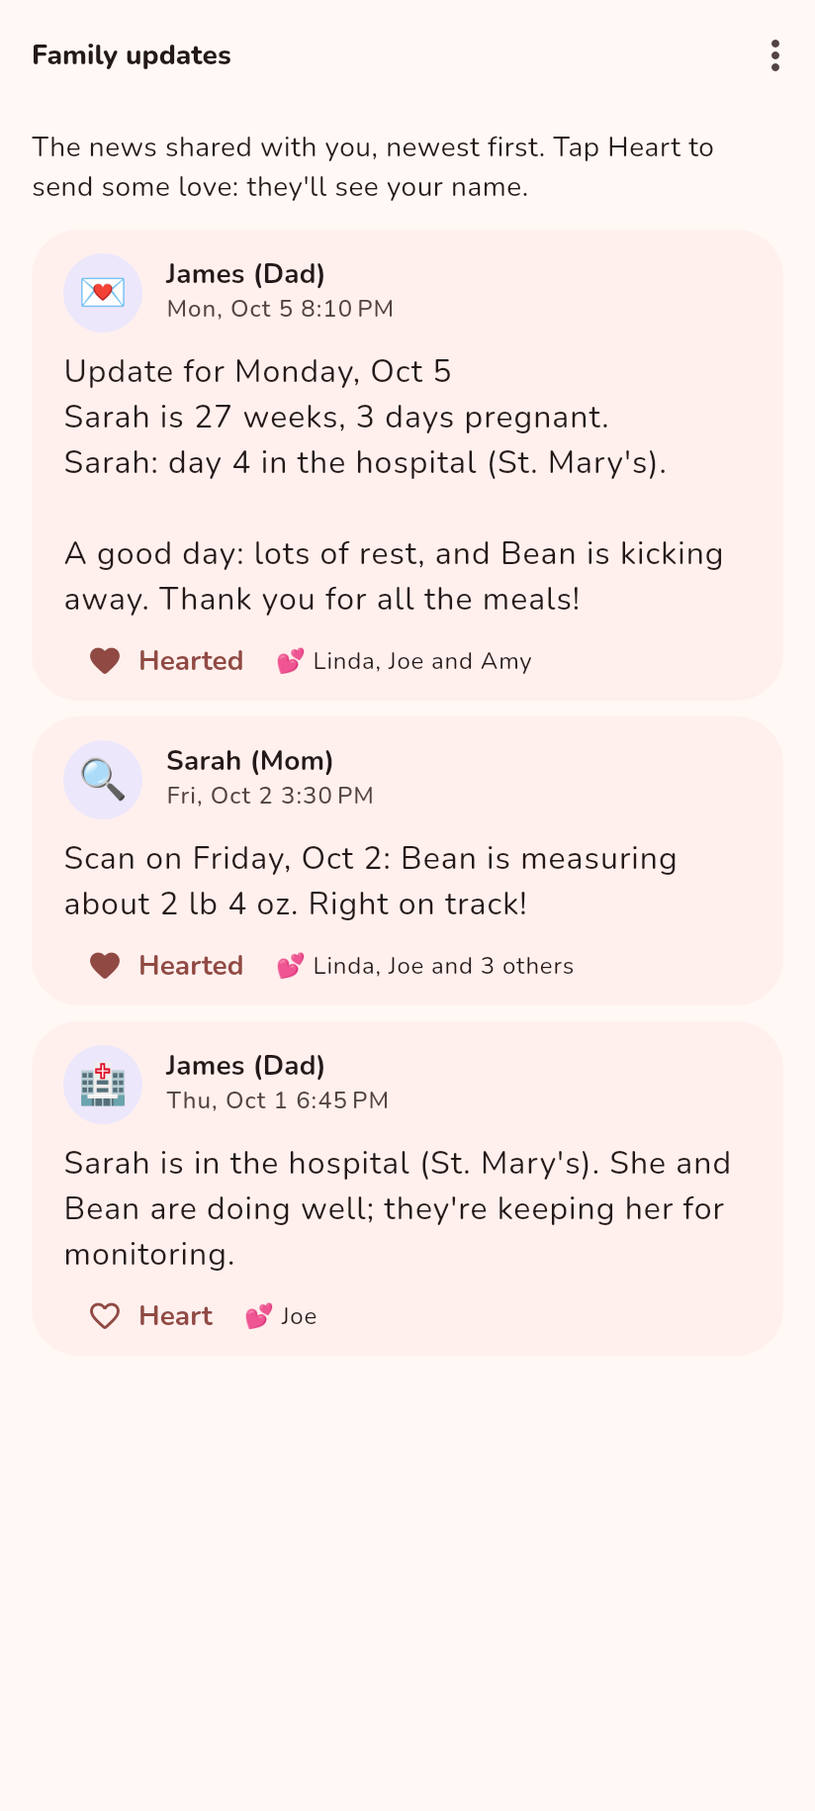
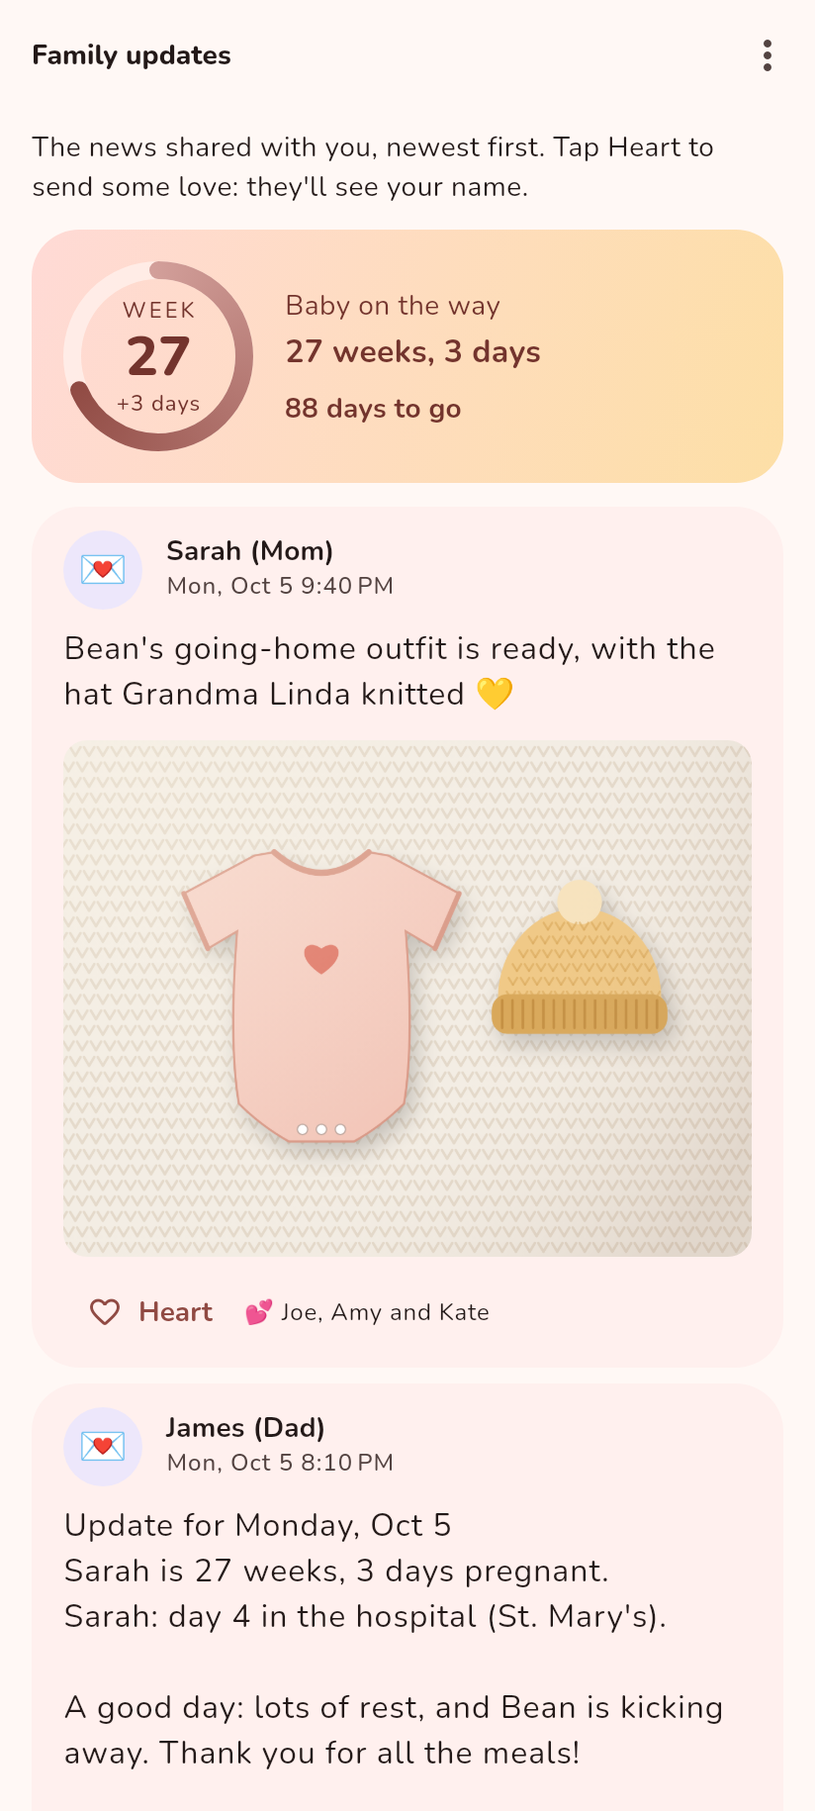
Early Bloom page: everything it does now, with new screenshots
What's Inside is rewritten to match the app and its store description:
week by week (with "if baby arrived today"), conditions, scans and
growth (twins and triplets), the journal and care-team report (bleed
photos), hospital stays and C-sections, after the birth (baby care,
preemie growth charts, medicines, vaccines, NICU days), home screen
widgets, keeping family posted (feed photos, how far along, browsers),
sync, support for families, sources, and prayers.

The gallery is the store's eight screens, bare, from the app's
screenshot generator (Premature-Baby-Tracker, tool/screenshots: the
"website" shots), four across on wide screens. The scan detail and
questions shots are gone; their screens are covered by the others.

The homepage card's blurb and the page's meta description now mention
baby care, widgets and the family feed with photos. The Google Play
status lines are unchanged.

Claude-Session: https://claude.ai/code/session_01KWMgQ7sXPWK8vjnxtNr6Rb

diff --git a/early-bloom.html b/early-bloom.html
@@ -4,7 +4,7 @@
     <meta charset="UTF-8">
     <meta name="viewport" content="width=device-width, initial-scale=1.0">
     <title>Early Bloom — For Families Whose Baby May Arrive Early</title>
-    <meta name="description" content="Early Bloom is an Android app in progress for families whose baby may arrive early: gestational and corrected age, a week-by-week guide, baby's growth, scans, medicines, a journal and a care-team report. Early access for Android, through Google Play's open testing.">
+    <meta name="description" content="Early Bloom is an Android app for families whose baby may arrive early: a week-by-week guide, scans and baby's growth, a journal and care-team report, baby care and NICU tools after the birth, home screen widgets, and a private family feed. Early access for Android, through Google Play's open testing.">
     <!-- Open Graph / social preview -->
     <meta property="og:title" content="Early Bloom — For Families Whose Baby May Arrive Early">
     <meta property="og:description" content="A gentle Android app for a pregnancy where the baby may arrive early, and for the baby afterwards. Early access for Android, through Google Play's open testing.">
@@ -96,7 +96,7 @@
                     A gentle companion for a pregnancy where the baby may arrive early, and for the baby, whenever they get here.
                 </p>
                 <p class="text-sm text-brand-50/60 max-w-xl mx-auto mb-9 leading-relaxed">
-                    Follow the pregnancy week by week, keep track of scans, medicines and symptoms in one place, and switch to NICU and corrected-age guidance once your baby has arrived.
+                    Follow the pregnancy week by week, keep track of scans, medicines and symptoms in one place, keep family posted, and switch to baby care and NICU guidance once your baby has arrived.
                 </p>
                 <!-- Google Play links: shown by early-bloom-status.js once the app is on Google Play. -->
                 <div data-play="live" class="hidden">
@@ -139,21 +139,21 @@
                             <div class="bg-white p-2 rounded-lg border border-brand-100">
                                 <i data-lucide="calendar-days" class="w-5 h-5 text-brand-800"></i>
                             </div>
-                            <h3 class="font-semibold text-brand-900">Gestational &amp; Corrected Age</h3>
+                            <h3 class="font-semibold text-brand-900">Week by Week</h3>
                         </div>
                         <p class="text-brand-500 leading-relaxed text-sm">
-                            See the exact week and day of the pregnancy. Once your baby is born, Early Bloom shows <strong class="text-brand-800">chronological age, postmenstrual age and corrected age</strong>, and the guidance follows along.
+                            The exact week and day, how big baby is and what usually happens this week, with preterm-aware tips. From 22 weeks, <strong class="text-brand-800">if baby arrived today</strong>: what a birth this week would likely mean, from large studies. You can hide the survival statistics at any time.
                         </p>
                     </div>
                     <div class="bg-brand-50 rounded-2xl p-7 border border-brand-100 shadow-sm">
                         <div class="flex items-center gap-3 mb-4">
                             <div class="bg-white p-2 rounded-lg border border-brand-100">
-                                <i data-lucide="book-open" class="w-5 h-5 text-brand-800"></i>
+                                <i data-lucide="stethoscope" class="w-5 h-5 text-brand-800"></i>
                             </div>
-                            <h3 class="font-semibold text-brand-900">Week-by-Week Guide</h3>
+                            <h3 class="font-semibold text-brand-900">Your Conditions</h3>
                         </div>
                         <p class="text-brand-500 leading-relaxed text-sm">
-                            Each week's development, symptoms and preterm-aware tips, with a timeline of every pregnancy week and the stages after birth, from the NICU to going home.
+                            Guides to preeclampsia, HELLP, short cervix, waters breaking early (PPROM), placenta previa, accreta and abruption, growth restriction, gestational diabetes, cholestasis, twins and a previous preterm birth: what each means for monitoring and birth, the warning signs to call about, and questions to ask.
                         </p>
                     </div>
                     <div class="bg-brand-50 rounded-2xl p-7 border border-brand-100 shadow-sm">
@@ -161,21 +161,10 @@
                             <div class="bg-white p-2 rounded-lg border border-brand-100">
                                 <i data-lucide="chart-line" class="w-5 h-5 text-brand-800"></i>
                             </div>
-                            <h3 class="font-semibold text-brand-900">Baby's Growth</h3>
+                            <h3 class="font-semibold text-brand-900">Scans &amp; Baby's Growth</h3>
                         </div>
                         <p class="text-brand-500 leading-relaxed text-sm">
-                            The measurements an ultrasound reports, calculated for the exact day with their typical range, using either the <strong class="text-brand-800">INTERGROWTH-21st</strong> standards or <strong class="text-brand-800">Hadlock</strong> charts. Between scans, it estimates baby's size today from the centile at your last scan.
-                        </p>
-                    </div>
-                    <div class="bg-brand-50 rounded-2xl p-7 border border-brand-100 shadow-sm">
-                        <div class="flex items-center gap-3 mb-4">
-                            <div class="bg-white p-2 rounded-lg border border-brand-100">
-                                <i data-lucide="clipboard-list" class="w-5 h-5 text-brand-800"></i>
-                            </div>
-                            <h3 class="font-semibold text-brand-900">Ultrasound Scans &amp; Medicines</h3>
-                        </div>
-                        <p class="text-brand-500 leading-relaxed text-sm">
-                            Copy in each scan's results to see every measurement's centile across scans, and keep a log of steroid, magnesium and other doses with the date and time.
+                            Copy in each scan's results to see every measurement's centile on <strong class="text-brand-800">INTERGROWTH-21st</strong> or <strong class="text-brand-800">Hadlock</strong> charts, and baby's estimated weight today between scans. For twins and triplets, each baby by name, a plan based on whether they share a placenta, and how far apart their weights are.
                         </p>
                     </div>
                     <div class="bg-brand-50 rounded-2xl p-7 border border-brand-100 shadow-sm">
@@ -186,18 +175,7 @@
                             <h3 class="font-semibold text-brand-900">Journal &amp; Care-Team Report</h3>
                         </div>
                         <p class="text-brand-500 leading-relaxed text-sm">
-                            Log bleeding, contractions, symptoms, blood pressure, blood sugar, kick counts and notes. Then put together a report for any period and <strong class="text-brand-800">email it to your care team</strong> from your own email app.
-                        </p>
-                    </div>
-                    <div class="bg-brand-50 rounded-2xl p-7 border border-brand-100 shadow-sm">
-                        <div class="flex items-center gap-3 mb-4">
-                            <div class="bg-white p-2 rounded-lg border border-brand-100">
-                                <i data-lucide="message-circle-question-mark" class="w-5 h-5 text-brand-800"></i>
-                            </div>
-                            <h3 class="font-semibold text-brand-900">Questions for Your Care Team</h3>
-                        </div>
-                        <p class="text-brand-500 leading-relaxed text-sm">
-                            Jot questions down as they come up, tick them off at the appointment and note the answer. Open questions can go straight into the care-team report.
+                            Log contractions, blood pressure, blood sugar, bleeding, symptoms, mood and notes, and count kicks live. Add photos of pads to a bleed: they stay out of your gallery, and only you and your partner see them. Keep a list of questions, and <strong class="text-brand-800">email a report to your care team</strong> from your own email app.
                         </p>
                     </div>
                     <div class="bg-brand-50 rounded-2xl p-7 border border-brand-100 shadow-sm">
@@ -205,10 +183,43 @@
                             <div class="bg-white p-2 rounded-lg border border-brand-100">
                                 <i data-lucide="hospital" class="w-5 h-5 text-brand-800"></i>
                             </div>
-                            <h3 class="font-semibold text-brand-900">If Baby Arrived Today</h3>
+                            <h3 class="font-semibold text-brand-900">Hospital Stays &amp; C-Sections</h3>
                         </div>
                         <p class="text-brand-500 leading-relaxed text-sm">
-                            From 22 weeks, what a birth this week would likely mean: NICU care, main risks and typical length of stay, drawn from <strong class="text-brand-800">ACOG, SMFM and NICHD</strong> sources.
+                            Who's in hospital and since when, and a shared list of things to bring. Count down to a planned C-section or induction, with your due date still in sight, then six weeks of recovery tips.
+                        </p>
+                    </div>
+                    <div class="bg-brand-50 rounded-2xl p-7 border border-brand-100 shadow-sm">
+                        <div class="flex items-center gap-3 mb-4">
+                            <div class="bg-white p-2 rounded-lg border border-brand-100">
+                                <i data-lucide="baby" class="w-5 h-5 text-brand-800"></i>
+                            </div>
+                            <h3 class="font-semibold text-brand-900">After the Birth</h3>
+                        </div>
+                        <p class="text-brand-500 leading-relaxed text-sm">
+                            Baby's age three ways: actual, corrected and postmenstrual. Log feeds, pumping and diapers, timed live or afterwards, with daily totals and a milk stash. <strong class="text-brand-800">Growth charts made for babies born early</strong>, then WHO by corrected age; medicines with reminders on both parents' phones, appointments, vaccines, and NICU days and firsts.
+                        </p>
+                    </div>
+                    <div class="bg-brand-50 rounded-2xl p-7 border border-brand-100 shadow-sm">
+                        <div class="flex items-center gap-3 mb-4">
+                            <div class="bg-white p-2 rounded-lg border border-brand-100">
+                                <i data-lucide="smartphone" class="w-5 h-5 text-brand-800"></i>
+                            </div>
+                            <h3 class="font-semibold text-brand-900">Home Screen Widgets</h3>
+                        </div>
+                        <p class="text-brand-500 leading-relaxed text-sm">
+                            The week and the days to go at a glance, in one cell or one row, then the days together once your baby is here. They update themselves at midnight. Family who follow your feed can add one too, to see how far along you are.
+                        </p>
+                    </div>
+                    <div class="bg-brand-50 rounded-2xl p-7 border border-brand-100 shadow-sm">
+                        <div class="flex items-center gap-3 mb-4">
+                            <div class="bg-white p-2 rounded-lg border border-brand-100">
+                                <i data-lucide="heart-handshake" class="w-5 h-5 text-brand-800"></i>
+                            </div>
+                            <h3 class="font-semibold text-brand-900">Keep Family Posted</h3>
+                        </div>
+                        <p class="text-brand-500 leading-relaxed text-sm">
+                            Write the day's update once and send it by text or email. Or invite family to a <strong class="text-brand-800">feed of just what you share</strong>, photos included, in the app or any web browser. They get a notification for each update, leave a heart, and see how far along you are.
                         </p>
                     </div>
                     <div class="bg-brand-50 rounded-2xl p-7 border border-brand-100 shadow-sm">
@@ -219,7 +230,29 @@
                             <h3 class="font-semibold text-brand-900">Sync &amp; Partner Sharing</h3>
                         </div>
                         <p class="text-brand-500 leading-relaxed text-sm">
-                            Optional sync through your Google account backs your journal up and brings it back on a new phone. Your partner joins with an invite, and you both see and add to the same journal. Family and friends can follow a feed of just the updates you choose to share, and leave a heart. It's <strong class="text-brand-800">end-to-end encrypted</strong>: we can't read it, and neither can Google.
+                            Optional sync through your Google account backs your journal up and brings it back on a new phone. Your partner joins with an invite, and you both see and add to everything; family can view the journal too. It's <strong class="text-brand-800">end-to-end encrypted</strong>: we can't read it, and neither can Google.
+                        </p>
+                    </div>
+                    <div class="bg-brand-50 rounded-2xl p-7 border border-brand-100 shadow-sm">
+                        <div class="flex items-center gap-3 mb-4">
+                            <div class="bg-white p-2 rounded-lg border border-brand-100">
+                                <i data-lucide="life-buoy" class="w-5 h-5 text-brand-800"></i>
+                            </div>
+                            <h3 class="font-semibold text-brand-900">Support for Your Family</h3>
+                        </div>
+                        <p class="text-brand-500 leading-relaxed text-sm">
+                            Helplines and charities for pregnancy, the NICU and loss, one tap to call or text. Work, leave and money basics for US families, gentle guidance on comfort care and saying goodbye, and a guide for dads, co-moms, grandparents and friends.
+                        </p>
+                    </div>
+                    <div class="bg-brand-50 rounded-2xl p-7 border border-brand-100 shadow-sm">
+                        <div class="flex items-center gap-3 mb-4">
+                            <div class="bg-white p-2 rounded-lg border border-brand-100">
+                                <i data-lucide="library" class="w-5 h-5 text-brand-800"></i>
+                            </div>
+                            <h3 class="font-semibold text-brand-900">Where It Comes From</h3>
+                        </div>
+                        <p class="text-brand-500 leading-relaxed text-sm">
+                            Written from published guidance by <strong class="text-brand-800">ACOG, SMFM, NICE, ISUOG, the CDC and the AAP</strong>, and from NICHD research. Every source is listed in the app. Early Bloom isn't affiliated with or endorsed by these organizations.
                         </p>
                     </div>
                     <div class="bg-brand-50 rounded-2xl p-7 border border-brand-100 shadow-sm">
@@ -242,33 +275,41 @@
             <div class="text-center mb-12">
                 <h2 class="font-serif text-3xl font-bold text-brand-900 mb-4">A Look Inside</h2>
                 <p class="text-brand-500 max-w-2xl mx-auto leading-relaxed">
-                    Screenshots from the current test version, with sample data.
+                    Screenshots from the app, with a made-up family.
                 </p>
             </div>
-            <div class="flex md:grid md:grid-cols-3 gap-6 overflow-x-auto md:overflow-visible snap-x snap-mandatory pb-4 -mx-6 px-6 md:mx-0 md:px-0">
+            <div class="flex md:grid md:grid-cols-4 gap-6 overflow-x-auto md:overflow-visible snap-x snap-mandatory pb-4 -mx-6 px-6 md:mx-0 md:px-0">
                 <figure class="snap-center shrink-0 w-56 md:w-auto">
-                    <img src="early-bloom-shots/today.png" width="412" height="915" loading="lazy" alt="Today: the week, a verse and prayer, and baby's estimated size from your scans" class="w-full h-auto rounded-2xl border border-brand-100 shadow-md bg-white">
-                    <figcaption class="text-xs text-brand-500 mt-3 text-center leading-snug">Today: the week, a verse and prayer, and baby's estimated size from your scans</figcaption>
+                    <img src="early-bloom-shots/today.png" width="412" height="915" loading="lazy" alt="Today: the week, and baby's estimated size from your scans" class="w-full h-auto rounded-2xl border border-brand-100 shadow-md bg-white">
+                    <figcaption class="text-xs text-brand-500 mt-3 text-center leading-snug">Today: the week, and baby's estimated size from your scans</figcaption>
                 </figure>
                 <figure class="snap-center shrink-0 w-56 md:w-auto">
-                    <img src="early-bloom-shots/scans.png" width="412" height="915" loading="lazy" alt="Ultrasound scans: weight and centiles over time, with today's estimate" class="w-full h-auto rounded-2xl border border-brand-100 shadow-md bg-white">
-                    <figcaption class="text-xs text-brand-500 mt-3 text-center leading-snug">Ultrasound scans: weight and centiles over time, with today's estimate</figcaption>
+                    <img src="early-bloom-shots/widgets.png" width="412" height="915" loading="lazy" alt="Home screen widgets: the week and the days to go" class="w-full h-auto rounded-2xl border border-brand-100 shadow-md bg-white">
+                    <figcaption class="text-xs text-brand-500 mt-3 text-center leading-snug">Home screen widgets: the week and the days to go</figcaption>
                 </figure>
                 <figure class="snap-center shrink-0 w-56 md:w-auto">
-                    <img src="early-bloom-shots/scan.png" width="412" height="915" loading="lazy" alt="One scan, with centiles on Hadlock or INTERGROWTH-21st charts" class="w-full h-auto rounded-2xl border border-brand-100 shadow-md bg-white">
-                    <figcaption class="text-xs text-brand-500 mt-3 text-center leading-snug">One scan, with centiles on Hadlock or INTERGROWTH-21st charts</figcaption>
+                    <img src="early-bloom-shots/growth.png" width="412" height="915" loading="lazy" alt="Baby's growth from your scans, with today's estimate" class="w-full h-auto rounded-2xl border border-brand-100 shadow-md bg-white">
+                    <figcaption class="text-xs text-brand-500 mt-3 text-center leading-snug">Baby's growth from your scans, with today's estimate</figcaption>
                 </figure>
                 <figure class="snap-center shrink-0 w-56 md:w-auto">
-                    <img src="early-bloom-shots/journal.png" width="412" height="915" loading="lazy" alt="The journal, with questions, scans, medicines and hospital stays" class="w-full h-auto rounded-2xl border border-brand-100 shadow-md bg-white">
-                    <figcaption class="text-xs text-brand-500 mt-3 text-center leading-snug">The journal, with questions, scans, medicines and hospital stays</figcaption>
+                    <img src="early-bloom-shots/journal.png" width="412" height="915" loading="lazy" alt="The journal: logs, questions, scans, medicines and hospital stays" class="w-full h-auto rounded-2xl border border-brand-100 shadow-md bg-white">
+                    <figcaption class="text-xs text-brand-500 mt-3 text-center leading-snug">The journal: logs, questions, scans, medicines and hospital stays</figcaption>
                 </figure>
                 <figure class="snap-center shrink-0 w-56 md:w-auto">
-                    <img src="early-bloom-shots/questions.png" width="412" height="915" loading="lazy" alt="Questions to ask your care team" class="w-full h-auto rounded-2xl border border-brand-100 shadow-md bg-white">
-                    <figcaption class="text-xs text-brand-500 mt-3 text-center leading-snug">Questions to ask your care team</figcaption>
+                    <img src="early-bloom-shots/baby-today.png" width="412" height="915" loading="lazy" alt="After the birth: baby's age the NICU way, feeds and diapers" class="w-full h-auto rounded-2xl border border-brand-100 shadow-md bg-white">
+                    <figcaption class="text-xs text-brand-500 mt-3 text-center leading-snug">After the birth: baby's age the NICU way, feeds and diapers</figcaption>
                 </figure>
                 <figure class="snap-center shrink-0 w-56 md:w-auto">
-                    <img src="early-bloom-shots/feed.png" width="412" height="915" loading="lazy" alt="The family feed: just the updates you share, with hearts from family" class="w-full h-auto rounded-2xl border border-brand-100 shadow-md bg-white">
-                    <figcaption class="text-xs text-brand-500 mt-3 text-center leading-snug">The family feed: just the updates you share, with hearts from family</figcaption>
+                    <img src="early-bloom-shots/baby-growth.png" width="412" height="915" loading="lazy" alt="Growth charts made for babies born early" class="w-full h-auto rounded-2xl border border-brand-100 shadow-md bg-white">
+                    <figcaption class="text-xs text-brand-500 mt-3 text-center leading-snug">Growth charts made for babies born early</figcaption>
+                </figure>
+                <figure class="snap-center shrink-0 w-56 md:w-auto">
+                    <img src="early-bloom-shots/feed.png" width="412" height="915" loading="lazy" alt="The family feed: how far along you are, and the news and photos you share" class="w-full h-auto rounded-2xl border border-brand-100 shadow-md bg-white">
+                    <figcaption class="text-xs text-brand-500 mt-3 text-center leading-snug">The family feed: how far along you are, and the news and photos you share</figcaption>
+                </figure>
+                <figure class="snap-center shrink-0 w-56 md:w-auto">
+                    <img src="early-bloom-shots/prayer.png" width="412" height="915" loading="lazy" alt="Optional prayers for each part of the journey" class="w-full h-auto rounded-2xl border border-brand-100 shadow-md bg-white">
+                    <figcaption class="text-xs text-brand-500 mt-3 text-center leading-snug">Optional prayers for each part of the journey</figcaption>
                 </figure>
             </div>
         </section>

diff --git a/index.html b/index.html
@@ -264,7 +264,7 @@
                                     An Android app for families whose baby may arrive early. It follows the pregnancy week by week, tracks baby's growth, scans and medicines, and switches to NICU and corrected-age guidance once the baby is born.
                                 </p>
                                 <p class="text-brand-500 mb-6 leading-relaxed">
-                                    It includes a journal with a report to email to your care team, family sharing and daily family updates.
+                                    It includes a journal with a report to email to your care team, baby care tools for after the birth, home screen widgets, and a private family feed with photos.
                                     <span data-play="live" class="hidden">Now in open testing on Google Play.</span>
                                     <span data-play="soon">Coming soon to Google Play.</span>
                                 </p>
